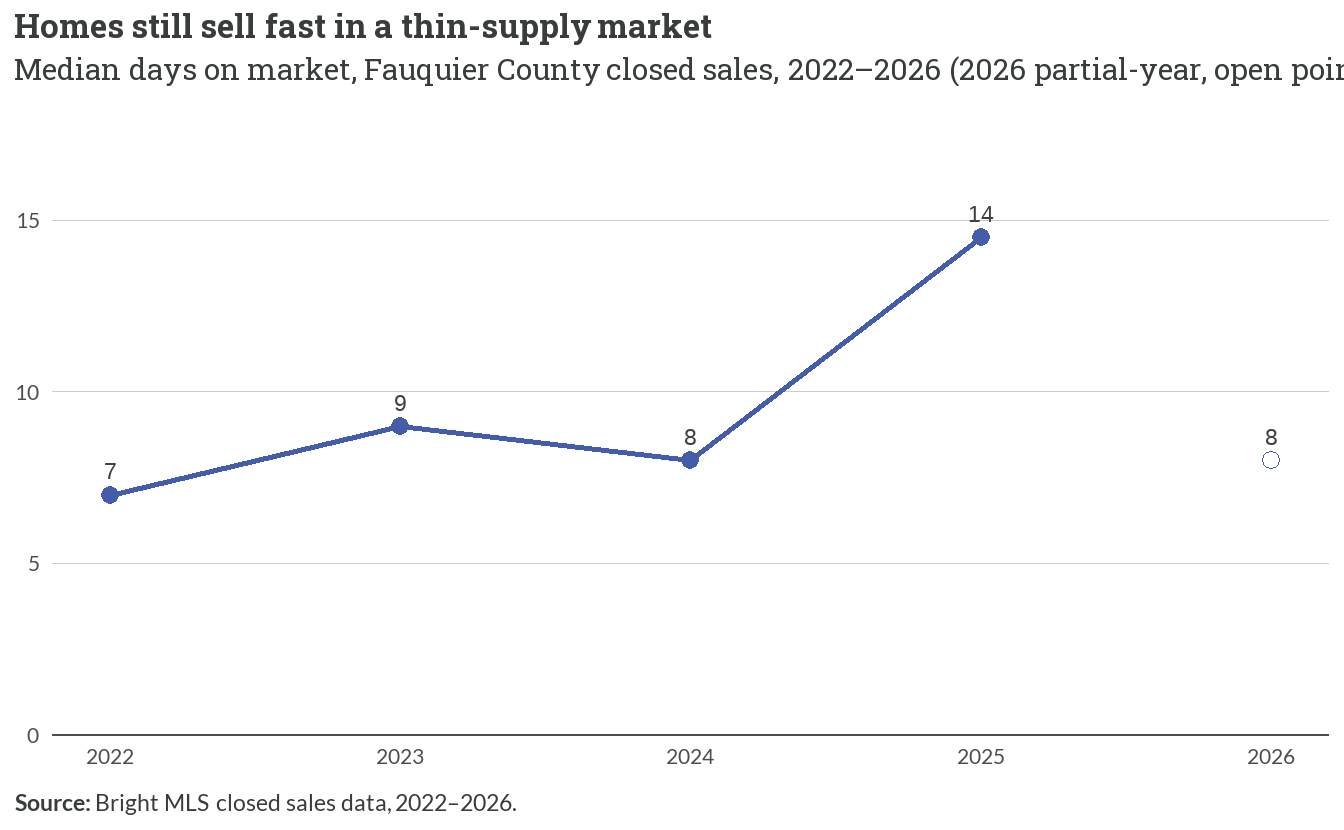
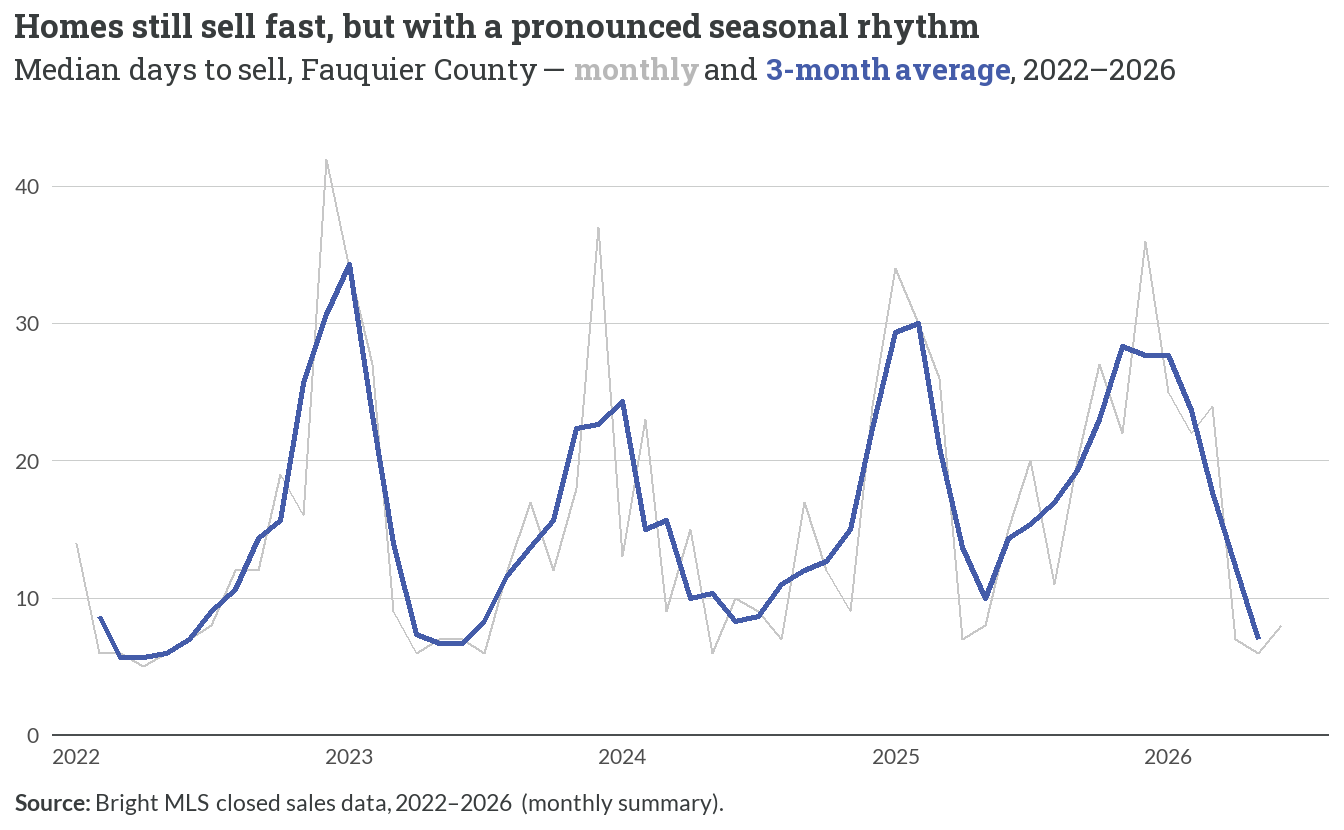
Add monthly summary series to for-sale pipeline and chapter
Ingest 9 monthly summary CSVs into a new monthly_summary frame in mls.rds; add months-of-supply/active-listings trend and monthly days-on-market figures to the ownership chapter; instrument summary-vs-transaction count reconciliation (published counts ~+20%, prices agree to 0.1%). Sales-volume headline deferred pending re-base decision.

diff --git a/docs/market-ownership.html b/docs/market-ownership.html
@@ -238,7 +238,7 @@ ul.task-list li input[type="checkbox"] {
 <h2 data-number="3.1" class="anchored" data-anchor-id="sales-volume"><span class="header-section-number">3.1</span> Sales volume</h2>
 <div class="cell" data-layout-align="left">
 <div class="cell-output-display">
-<div id="fig-sales-volume" class="quarto-float quarto-figure quarto-figure-left anchored" alt="Column chart of Fauquier County annual home sales from 2016 to 2026. Volume climbs from about 1,067 in 2016 to a 2020–21 peak near 1,450–1,470, then falls to roughly 850–940 sales a year in 2022–2025. Columns through 2021 come from the earlier GP/VAR series and 2022 onward from Bright MLS; the final 2026 column is a partial year-to-date count." data-fig-align="left">
+<div id="fig-sales-volume" class="quarto-float quarto-figure quarto-figure-left anchored" data-fig-align="left" alt="Column chart of Fauquier County annual home sales from 2016 to 2026. Volume climbs from about 1,067 in 2016 to a 2020–21 peak near 1,450–1,470, then falls to roughly 850–940 sales a year in 2022–2025. Columns through 2021 come from the earlier GP/VAR series and 2022 onward from Bright MLS; the final 2026 column is a partial year-to-date count.">
 <figure class="quarto-float quarto-float-fig figure">
 <div aria-describedby="fig-sales-volume-caption-0ceaefa1-69ba-4598-a22c-09a6ac19f8ca">
 <img src="market-ownership_files/figure-html/fig-sales-volume-1.png" class="img-fluid quarto-figure quarto-figure-left figure-img" style="width:100.0%" alt="Column chart of Fauquier County annual home sales from 2016 to 2026. Volume climbs from about 1,067 in 2016 to a 2020–21 peak near 1,450–1,470, then falls to roughly 850–940 sales a year in 2022–2025. Columns through 2021 come from the earlier GP/VAR series and 2022 onward from Bright MLS; the final 2026 column is a partial year-to-date count.">
@@ -255,12 +255,25 @@ Figure&nbsp;3.1: Home sales cooled sharply from the 2020–21 peak
 <li>The cooling reflects <strong>thin supply and higher financing costs</strong>, not falling demand — prices kept climbing through the slowdown (<a href="#fig-price-trend" class="quarto-xref">Figure&nbsp;<span>3.2</span></a>).</li>
 <li>Counts through 2021 come from the GP/VAR annual series and 2022 onward from Bright MLS; <strong>2026 is a partial year-to-date count</strong> and is not comparable to the full years.</li>
 </ul>
+<div class="callout callout-style-default callout-note callout-titled">
+<div class="callout-header d-flex align-content-center">
+<div class="callout-icon-container">
+<i class="callout-icon"></i>
+</div>
+<div class="callout-title-container flex-fill">
+<span class="screen-reader-only">Note</span>A note on sales counts
+</div>
+</div>
+<div class="callout-body-container callout-body">
+<p>Bright MLS’s <strong>published monthly summary</strong> reports roughly <strong>20% more sales</strong> than the transaction-level export used for the volume series above (e.g.&nbsp;1,127 vs 938 closings in 2025) — a near-constant level offset across every year, consistent with a property-type filter on the export. <strong>Median sale prices agree between the two sources to within ~0.1%</strong>, so the price findings are unaffected; the <em>level</em> of sales counts (and the active-listing snapshot below) should be read as the export’s narrower definition, while the year-over-year <em>trend</em> holds under either source.</p>
+</div>
+</div>
 </section>
 <section id="prices" class="level2" data-number="3.2">
 <h2 data-number="3.2" class="anchored" data-anchor-id="prices"><span class="header-section-number">3.2</span> Prices</h2>
 <div class="cell" data-layout-align="left">
 <div class="cell-output-display">
-<div id="fig-price-trend" class="quarto-float quarto-figure quarto-figure-left anchored" alt="Line chart of Fauquier County median sold price from 2016 to 2025. The nominal monthly line rises from about $360,000 to $650,000; the inflation-adjusted line in 2025 dollars rises more gently from about $465,000 to $650,000. Two annual town-ZIP lines beginning in 2022 sit on either side of the county: Warrenton near $690,000 and Bealeton near $570,000 by 2025." data-fig-align="left">
+<div id="fig-price-trend" class="quarto-float quarto-figure quarto-figure-left anchored" data-fig-align="left" alt="Line chart of Fauquier County median sold price from 2016 to 2025. The nominal monthly line rises from about $360,000 to $650,000; the inflation-adjusted line in 2025 dollars rises more gently from about $465,000 to $650,000. Two annual town-ZIP lines beginning in 2022 sit on either side of the county: Warrenton near $690,000 and Bealeton near $570,000 by 2025.">
 <figure class="quarto-float quarto-float-fig figure">
 <div aria-describedby="fig-price-trend-caption-0ceaefa1-69ba-4598-a22c-09a6ac19f8ca">
 <img src="market-ownership_files/figure-html/fig-price-trend-1.png" class="img-fluid quarto-figure quarto-figure-left figure-img" style="width:100.0%" alt="Line chart of Fauquier County median sold price from 2016 to 2025. The nominal monthly line rises from about $360,000 to $650,000; the inflation-adjusted line in 2025 dollars rises more gently from about $465,000 to $650,000. Two annual town-ZIP lines beginning in 2022 sit on either side of the county: Warrenton near $690,000 and Bealeton near $570,000 by 2025.">
@@ -282,7 +295,7 @@ Figure&nbsp;3.2: Prices climbed steeply — and kept rising even after inflation
 <h2 data-number="3.3" class="anchored" data-anchor-id="prices-vs.-payments-vs.-incomes"><span class="header-section-number">3.3</span> Prices vs.&nbsp;payments vs.&nbsp;incomes</h2>
 <div class="cell" data-layout-align="left">
 <div class="cell-output-display">
-<div id="fig-price-payment-income" class="quarto-float quarto-figure quarto-figure-left anchored" alt="Indexed line chart set to 100 in 2016 for Fauquier County. The monthly mortgage payment line rises fastest, reaching about 250 by 2025; the median sold price line reaches about 180; and median household income rises most slowly to about 145 by 2024. The gap between payments and incomes widens sharply after 2021 as mortgage rates jump." data-fig-align="left">
+<div id="fig-price-payment-income" class="quarto-float quarto-figure quarto-figure-left anchored" data-fig-align="left" alt="Indexed line chart set to 100 in 2016 for Fauquier County. The monthly mortgage payment line rises fastest, reaching about 250 by 2025; the median sold price line reaches about 180; and median household income rises most slowly to about 145 by 2024. The gap between payments and incomes widens sharply after 2021 as mortgage rates jump.">
 <figure class="quarto-float quarto-float-fig figure">
 <div aria-describedby="fig-price-payment-income-caption-0ceaefa1-69ba-4598-a22c-09a6ac19f8ca">
 <img src="market-ownership_files/figure-html/fig-price-payment-income-1.png" class="img-fluid quarto-figure quarto-figure-left figure-img" style="width:100.0%" alt="Indexed line chart set to 100 in 2016 for Fauquier County. The monthly mortgage payment line rises fastest, reaching about 250 by 2025; the median sold price line reaches about 180; and median household income rises most slowly to about 145 by 2024. The gap between payments and incomes widens sharply after 2021 as mortgage rates jump.">
@@ -304,7 +317,7 @@ Figure&nbsp;3.3: Monthly mortgage payments have far outrun both prices and incom
 <h2 data-number="3.4" class="anchored" data-anchor-id="price-segments"><span class="header-section-number">3.4</span> Price segments</h2>
 <div class="cell" data-layout-align="left">
 <div class="cell-output-display">
-<div id="fig-price-bands" class="quarto-float quarto-figure quarto-figure-left anchored" alt="Hundred-percent stacked column chart of Fauquier County home sales by price band from 2022 to 2026. The under-$250,000 band shrinks from about 4% to under 2%, and the $250,000–$350,000 band from about 10% to 4%, while the $500,000–$750,000 and $750,000-plus bands together grow to roughly three-quarters of all sales." data-fig-align="left">
+<div id="fig-price-bands" class="quarto-float quarto-figure quarto-figure-left anchored" data-fig-align="left" alt="Hundred-percent stacked column chart of Fauquier County home sales by price band from 2022 to 2026. The under-$250,000 band shrinks from about 4% to under 2%, and the $250,000–$350,000 band from about 10% to 4%, while the $500,000–$750,000 and $750,000-plus bands together grow to roughly three-quarters of all sales.">
 <figure class="quarto-float quarto-float-fig figure">
 <div aria-describedby="fig-price-bands-caption-0ceaefa1-69ba-4598-a22c-09a6ac19f8ca">
 <img src="market-ownership_files/figure-html/fig-price-bands-1.png" class="img-fluid quarto-figure quarto-figure-left figure-img" style="width:100.0%" alt="Hundred-percent stacked column chart of Fauquier County home sales by price band from 2022 to 2026. The under-$250,000 band shrinks from about 4% to under 2%, and the $250,000–$350,000 band from about 10% to 4%, while the $500,000–$750,000 and $750,000-plus bands together grow to roughly three-quarters of all sales.">
@@ -326,21 +339,39 @@ Figure&nbsp;3.4: The entry-level segment has all but disappeared
 <h2 data-number="3.5" class="anchored" data-anchor-id="days-on-market-supply"><span class="header-section-number">3.5</span> Days on market &amp; supply</h2>
 <div class="cell" data-layout-align="left">
 <div class="cell-output-display">
-<div id="fig-days-on-market" class="quarto-float quarto-figure quarto-figure-left anchored" alt="Line chart of median days on market for Fauquier County home sales from 2022 to 2026. The median hovers around 7 to 9 days in 2022–2024, rises to about 15 days in 2025, then reads 8 in the partial 2026 year — all well within a fast-moving market." data-fig-align="left">
+<div id="fig-days-on-market" class="quarto-float quarto-figure quarto-figure-left anchored" data-fig-align="left" alt="Line chart of median days to sell for Fauquier County home sales, monthly from 2022 to mid-2026. A faint monthly line swings between roughly 5 days in spring and 30 to 40 days in winter each year; a heavier three-month average line makes the seasonal sawtooth clear and drifts modestly higher in 2025 before easing in 2026.">
 <figure class="quarto-float quarto-float-fig figure">
 <div aria-describedby="fig-days-on-market-caption-0ceaefa1-69ba-4598-a22c-09a6ac19f8ca">
-<img src="market-ownership_files/figure-html/fig-days-on-market-1.png" class="img-fluid quarto-figure quarto-figure-left figure-img" style="width:100.0%" alt="Line chart of median days on market for Fauquier County home sales from 2022 to 2026. The median hovers around 7 to 9 days in 2022–2024, rises to about 15 days in 2025, then reads 8 in the partial 2026 year — all well within a fast-moving market.">
+<img src="market-ownership_files/figure-html/fig-days-on-market-1.png" class="img-fluid quarto-figure quarto-figure-left figure-img" style="width:100.0%" alt="Line chart of median days to sell for Fauquier County home sales, monthly from 2022 to mid-2026. A faint monthly line swings between roughly 5 days in spring and 30 to 40 days in winter each year; a heavier three-month average line makes the seasonal sawtooth clear and drifts modestly higher in 2025 before easing in 2026.">
 </div>
 <figcaption class="quarto-float-caption-bottom quarto-float-caption quarto-float-fig" id="fig-days-on-market-caption-0ceaefa1-69ba-4598-a22c-09a6ac19f8ca">
-Figure&nbsp;3.5: Homes still sell fast in a thin-supply market
+Figure&nbsp;3.5: Homes still sell fast, but with a pronounced seasonal rhythm
 </figcaption>
 </figure>
 </div>
 </div>
 </div>
 <ul>
-<li>Median days on market stayed <strong>fast — around 7–8 days in 2022–2024, ticking up to 14 in 2025</strong> as higher rates cooled demand, but still a matter of weeks, not months.</li>
-<li>With only <strong>218 active listings</strong> against 2025’s sales pace, the county holds about <strong>2.8 months of supply</strong> — well inside the roughly six-month threshold that separates a buyer’s from a seller’s market.</li>
+<li>Homes sell <strong>fast — a median of 10–11 days in 2022–2024, rising to 21 in 2025</strong> as higher rates cooled demand, but still weeks, not months.</li>
+<li>The monthly view exposes a <strong>strong seasonal rhythm the annual averages hide</strong>: listings linger roughly 25–40 days in December–February and sell in under 10 by spring, every year.</li>
+</ul>
+<div class="cell" data-layout-align="left">
+<div class="cell-output-display">
+<div id="fig-supply-trend" class="quarto-float quarto-figure quarto-figure-left anchored" data-fig-align="left" alt="Two-panel chart for 2022 to mid-2026. The top panel shows active listings rising from about 315 to a 2025 peak above 450 in Fauquier County, with Warrenton flat near 45; the bottom panel shows months of supply climbing from about 3 to roughly 4 to 5 months for both the county and Warrenton, staying below the dashed six-month line that marks a balanced market.">
+<figure class="quarto-float quarto-float-fig figure">
+<div aria-describedby="fig-supply-trend-caption-0ceaefa1-69ba-4598-a22c-09a6ac19f8ca">
+<img src="market-ownership_files/figure-html/fig-supply-trend-1.png" class="img-fluid quarto-figure quarto-figure-left figure-img" style="width:100.0%" alt="Two-panel chart for 2022 to mid-2026. The top panel shows active listings rising from about 315 to a 2025 peak above 450 in Fauquier County, with Warrenton flat near 45; the bottom panel shows months of supply climbing from about 3 to roughly 4 to 5 months for both the county and Warrenton, staying below the dashed six-month line that marks a balanced market.">
+</div>
+<figcaption class="quarto-float-caption-bottom quarto-float-caption quarto-float-fig" id="fig-supply-trend-caption-0ceaefa1-69ba-4598-a22c-09a6ac19f8ca">
+Figure&nbsp;3.6: Inventory has loosened from its pandemic lows — but supply is still tight
+</figcaption>
+</figure>
+</div>
+</div>
+</div>
+<ul>
+<li>Active for-sale inventory has climbed from a tight <strong>~315 listings a month in 2022 to ~392 in 2025</strong>, and months of supply from about <strong>3.4 to 4.3 months</strong> — a real loosening from the pandemic-era squeeze.</li>
+<li>Even so, supply stays <strong>well below the roughly six-month mark</strong> that separates a seller’s from a buyer’s market: Fauquier remains a seller’s market, just a less extreme one than at the 2021–22 peak.</li>
 </ul>
 <div class="callout callout-style-default callout-note callout-titled">
 <div class="callout-header d-flex align-content-center">
@@ -348,11 +379,11 @@ Figure&nbsp;3.5: Homes still sell fast in a thin-supply market
 <i class="callout-icon"></i>
 </div>
 <div class="callout-title-container flex-fill">
-<span class="screen-reader-only">Note</span>Current inventory — a strong seller’s market
+<span class="screen-reader-only">Note</span>Inventory is recovering, not recovered
 </div>
 </div>
 <div class="callout-body-container callout-body">
-<p>As of the July 2026 snapshot, <strong>218 homes were listed for sale</strong> county-wide. Against the 2025 sales pace (~78 closings a month), that is roughly <strong>2.8 months of supply</strong> — a strong seller’s market. Active inventory and months-of-supply are a <strong>single point-in-time snapshot</strong>, not a trend: a retroactive inventory time series cannot be reconstructed from the available data.</p>
+<p>Contrary to a point-in-time reading, the monthly Bright MLS series shows active listings and months of supply <strong>trending upward since 2022</strong> (from ~3.4 to ~4.3 months) as higher rates slowed the frantic pace — but Fauquier is <strong>still firmly a seller’s market</strong>, with supply short of the ~6-month balance point and homes selling within weeks for most of the year.</p>
 </div>
 </div>
 </section>
@@ -360,13 +391,13 @@ Figure&nbsp;3.5: Homes still sell fast in a thin-supply market
 <h2 data-number="3.6" class="anchored" data-anchor-id="what-it-takes-to-buy"><span class="header-section-number">3.6</span> What it takes to buy</h2>
 <div class="cell" data-layout-align="left">
 <div class="cell-output-display">
-<div id="fig-income-to-buy" class="quarto-float quarto-figure quarto-figure-left anchored" alt="Two-bar comparison for Fauquier County. The income needed to afford the median-priced home is about $190,600, well above the actual median household income of about $130,200 — a gap of roughly $60,000." data-fig-align="left">
+<div id="fig-income-to-buy" class="quarto-float quarto-figure quarto-figure-left anchored" data-fig-align="left" alt="Two-bar comparison for Fauquier County. The income needed to afford the median-priced home is about $190,600, well above the actual median household income of about $130,200 — a gap of roughly $60,000.">
 <figure class="quarto-float quarto-float-fig figure">
 <div aria-describedby="fig-income-to-buy-caption-0ceaefa1-69ba-4598-a22c-09a6ac19f8ca">
 <img src="market-ownership_files/figure-html/fig-income-to-buy-1.png" class="img-fluid quarto-figure quarto-figure-left figure-img" style="width:100.0%" alt="Two-bar comparison for Fauquier County. The income needed to afford the median-priced home is about $190,600, well above the actual median household income of about $130,200 — a gap of roughly $60,000.">
 </div>
 <figcaption class="quarto-float-caption-bottom quarto-float-caption quarto-float-fig" id="fig-income-to-buy-caption-0ceaefa1-69ba-4598-a22c-09a6ac19f8ca">
-Figure&nbsp;3.6: Buying the median home takes about $60,000 more than the median household earns
+Figure&nbsp;3.7: Buying the median home takes about $60,000 more than the median household earns
 </figcaption>
 </figure>
 </div>
@@ -391,8 +422,8 @@ Figure&nbsp;3.6: Buying the median home takes about $60,000 more than the median
 </div>
 <div class="callout-body-container callout-body">
 <ul>
-<li><strong>“Only about 3 for-sale listings under $350,000 were on the market (April 2026).”</strong> <em>Confirmed.</em> The July 2026 snapshot shows <strong>exactly 3 of 218 active listings priced under $350,000</strong> (<a href="#fig-price-bands" class="quarto-xref">Figure&nbsp;<span>3.4</span></a>, <a href="#fig-days-on-market" class="quarto-xref">Figure&nbsp;<span>3.5</span></a>) — the entry-level for-sale segment has effectively vanished.</li>
-<li><strong>“Homes are expensive relative to what local incomes can support.”</strong> <em>Confirmed and nuanced.</em> Median prices nearly doubled since 2016 and rose in real terms (<a href="#fig-price-trend" class="quarto-xref">Figure&nbsp;<span>3.2</span></a>); the income needed to buy the median home now exceeds the actual median by ~$60k (<a href="#fig-income-to-buy" class="quarto-xref">Figure&nbsp;<span>3.6</span></a>). The squeeze is amplified by financing: monthly payments rose far faster than prices or incomes (<a href="#fig-price-payment-income" class="quarto-xref">Figure&nbsp;<span>3.3</span></a>).</li>
+<li><strong>“Only about 3 for-sale listings under $350,000 were on the market (April 2026).”</strong> <em>Confirmed.</em> The July 2026 listing export shows <strong>exactly 3 of 218 active listings priced under $350,000</strong> (<a href="#fig-price-bands" class="quarto-xref">Figure&nbsp;<span>3.4</span></a>) — the entry-level for-sale segment has effectively vanished. (The 218-listing export is the narrower property-type subset noted above; Bright MLS’s published count for the county runs higher, but the near-total absence of sub-$350k inventory holds regardless.)</li>
+<li><strong>“Homes are expensive relative to what local incomes can support.”</strong> <em>Confirmed and nuanced.</em> Median prices nearly doubled since 2016 and rose in real terms (<a href="#fig-price-trend" class="quarto-xref">Figure&nbsp;<span>3.2</span></a>); the income needed to buy the median home now exceeds the actual median by ~$60k (<a href="#fig-income-to-buy" class="quarto-xref">Figure&nbsp;<span>3.7</span></a>). The squeeze is amplified by financing: monthly payments rose far faster than prices or incomes (<a href="#fig-price-payment-income" class="quarto-xref">Figure&nbsp;<span>3.3</span></a>).</li>
 <li><strong>“Buyers face a quality-versus-price mismatch — what’s affordable isn’t desirable, and what’s desirable isn’t affordable.”</strong> <em>Confirmed and nuanced.</em> New construction skews larger and pricier (<a href="inventory.html" class="quarto-xref"><span>Chapter 1</span></a>), the sub-$350k segment has all but disappeared (<a href="#fig-price-bands" class="quarto-xref">Figure&nbsp;<span>3.4</span></a>), and the market still moves fast (<a href="#fig-days-on-market" class="quarto-xref">Figure&nbsp;<span>3.5</span></a>) — leaving entry-level buyers with few options at any quality level.</li>
 </ul>
 </div>

diff --git a/PLAN.md b/PLAN.md
@@ -485,3 +485,4 @@ Rule of thumb: if it isn't needed to render a § 7 figure or satisfy a § 6 vali
 - **2026-07-13** — Session 9 (Ownership + Rental market chapters) complete (Opus 4.8; built across two sittings — part 1 = market infra + `market-ownership.qmd` (commit 192bae4), part 2 = `market-rental.qmd` + close). Built `market-ownership.qmd` (Ch 3a, 7 §7 items F1–F7) + `market-rental.qmd` (Ch 3b, 8 §7 items F1–F8). **Shared infra (Phase 0, part 1):** four new `_common.R` caption helpers (`costar_cap`/`fmr_cap`/`nhpd_cap`/`pmms_cap`); `r/mls.R` extended with three aggregate frames (`annual_zip`, `dom_annual`, `sales_bands`), re-run clean, existing validations green; `CLAUDE.md` + `README.md` updated. No API pulls; no `r/` re-run in part 2. **Ch 3a key numbers:** 2025 annual median price $650,000 (GP benchmark ~$645,250, +0.7% ✓); sales peaked 2021, down ~36% to 2025; county median +81% nominal / real +~40% since 2016; ~218 active listings, ~2.8 months of supply (Jul 2026 snapshot); income to buy the median $190,586 vs actual $130,189 (gap ~$60k, reused from `gaps.rds`); 3 of 218 active listings under $350k. **Ch 3b key numbers:** renter share county 21% / Warrenton 37% / Bealeton 21% / VA 33%; median gross rent $1,138 (2013) → $1,613 (2024), +42% nominal / +10% real; CoStar professional market 998 units across 14 tracked properties (41 in broader inventory), latest adj asking $1,604 (exact benchmark ✓), recent vacancy ~2.8%; single-family = 67.8% of rentals, purpose-built apartments (5+) = 19.8%; NHPD 874 assisted units / 13 properties (exact benchmark ✓), soonest expiration Jan 2027, 8 of 13 expiring by 2036; MLS 2025 rentals 28 of 203 under $1,700, median lease $2,450. **Part-1 (Ch 3a) deviations, folded in for the record:** (a) F3 price/payment/income index actuals ran above GP — price +81% / payment +152% / income +43% through 2024 vs GP +79/+127/+35 — same direction (payments ≫ prices ≫ incomes), higher magnitude; (b) `acs_income$b19013_trend` had a full annual county B19013 series, so the Step-0 endpoint-anchor fallback was not needed; (c) DOM used the native `days_on_market` MLS field (not close−list arithmetic); (d) the F6 income-to-buy caption cross-ref to `@sec-gaps` was kept in prose only — `theme_hda` renders captions via gridtext, which errors on the `<a>` tag Quarto emits for `@`-refs inside `labs(caption=)`. **Part-2 (Ch 3b) deviations:** (1) **F6 FMR direction flipped from the plan placeholder** — the plan expected "FMRs lag the going market," but because Fauquier sits in the high-cost DC metro FMR area the county 2BR FMR ($2,246) runs *far above* the actual ACS median 2BR rent ($1,437); SAFMRs pull toward local reality but still exceed the ACS median at every bedroom size. Takeaway reframed to "Metro FMRs run well above what renters actually pay" and the voucher-payment-standard implication noted; (2) **F4 built as a 2-panel facet** (asking rent nominal+real / vacancy) with a magnitude-based per-panel axis labeller (`$` when break ≥100, `%` below) — `vacancy_rate` is fully populated (42/42), so the panel was built, not dropped; `strip.text = element_text()` override removed after it hit a ggplot2 4.0 S7 `merge_element` class clash with `theme_hda`'s strip element; (3) **F3 rent-distribution town treatment** — county shows all 6 bands (2 High + 4 Medium), Warrenton 2 Medium bands survive (4 Low suppressed), Bealeton fully suppressed (tiny renter base) — reliability treatment visible and not all-suppressed overall; (4) `acs_stock$vars$b25063`/`$b25031` label frames are empty, so B25063 rent brackets and B25031 bedroom variables were mapped inline from the standard ACS layout (Step-0 #5 fallback); (5) B25032 renter-side collapse via a hardcoded `structure_cat32()` (variables 014–023), mirroring inventory's `structure_cat`. **Reliability spot-check:** F1 renter cells — county/Warrenton High, Bealeton Medium (footnoted), VA High; F2 all town rent cells High (none suppressed); F3 as above; F5/town structure too small → county-only by design. Confirms the wrapper spans tiers and does not uniformly flag "Low." **Render:** `quarto render market-rental.qmd` clean; full-book `quarto render` clean (11 chapters incl. stubs); both market chapters appear in report order between `demographics` and `gaps`; `@sec-market-ownership` (referenced from Ch 1/Ch 2) and internal `@fig-*`/`@tbl-*` refs resolve, no `?@` broken refs; `_freeze/` + `docs/` rebuilt. **Deferrals:** none — all 15 §7 items across both chapters built. **Open questions:** (a) F6 FMR direction flip is a genuine finding, not an error — worth a one-line note in `data-notes.qmd` (Session 11) that Fauquier's metro FMR overstates local rents and SAFMR/ACS are the better local gauges; (b) NHPD `total_assisted_units` (874) can exceed a property's `total_units` where subsidies overlap (e.g. Warrenton Manor 166 assisted vs 98 units) — footnoted in `@tbl-nhpd`, flag for Session 11 methodology.
 - **2026-07-14** — Session 10 **part 1** (Affordability Gaps chapter + shared infra) complete (Opus 4.8). Built `gaps.qmd` (Ch 4, 8 labeled §7 items F1–F8 + F9 = two callouts). **Phase 0a:** three new `_common.R` caption helpers (`ami_cap(year)`/`pit_cap()`/`vdoe_cap()`); `CLAUDE.md` + `README.md` helper lists updated. **Phase 0b (only API pull / `r/` re-run this session):** extended `r/acs_costs.R` to pull B25070 (renter GRAPI) + B25091 (owner SMOCAPI) across the trend vintages (2013/2017/2021/2024) into a new `burden_trend` frame — GEOID/geo_type/year/tenure/burdened/computed/share/moe_share/cv, with a derived-proportion CV (Census ratio/proportion MOE formula, 0–100 scale). Burden = Σ(30%+ categories) ÷ (categories with a computed ratio); owner numerator = mortgaged 008–011 + non-mortgaged 019–022, denom excludes the two "not computed" cells (012/023). Re-run clean; `trend_rent`/`trend_value` untouched; output-length check bumped to `+3`. **Validation vs GP (all green):** ACS 2024 Fauquier renter burden **40.2%** / owner **21.5%** (exact); CHAS T8 county renter **32.9%** / owner **20.1%** (exact); CHAS T7 detail-sum occupied HH ≈ **25,900** (benchmark 25,944); afford_by_band 50% AMI → $1,869 rent / $149,261 buy; income-needed rent **$98,000** / buy **$190,586**; rental deficit **−625** at ≤30% AMI (net −3,315 across 4 bands); ownership **8 of 218** listings affordable below 100% AMI (0/0/1/7 across the four lower bands, **210** only in the 120%+ price range); wages All Jobs $68,000 / Health Care $60,062 / Retail $41,934 / Local Gov $58,079, 2-worker $136,000 vs rent $98k / buy $190,586; HUD MFI **$166,100**. **Fig 4/Fig 5 burden-source split honored:** Fig 4 (`fig-burden-trend`) = ACS 40.2/21.5 with the reconciliation footnote (ACS excludes ~700 "not computed" renters → exceeds CHAS 32.9%; full note deferred to `data-notes.qmd`); Fig 5 (`fig-burden-band`) = CHAS T8 32.9/20.1, the core by-AMI-band chart, using `cb_pal`. **Takeaway direction flip (reframed to actual data, per plan license):** the plan's Fig 4 anticipated a possible rising burden "trend," but the ACS series *declines* modestly 2013→2024 (renter 44.0%→40.2%, owner 28.7%→21.5%); title reframed to "Cost burden has eased since 2013, but renters remain far more burdened than owners," with a bullet noting the low-rate-decade cause and that the recent rate environment points the other way. **Gotchas hit:** (a) **gridtext `<a>`-tag error confirmed for `@fig`/`@tbl` cross-refs inside `labs(caption=)`** — commonmark autolinks `@fig-… (` → `<a>`; removed all three caption cross-refs (kept them in bullet prose), matching the S9 precedent; (b) CHAS T7/T8 `household_income` already carries short labels (`≤30% AMI`…`>100% AMI`) — no verbose-HAMFI normalization needed (that quirk is T15/T18); (c) `case_when()` throughout; (d) F3/F5 facets rendered fine on `theme_hda()`'s built-in strips (no raw `strip.text` override) — no ggplot2 4.0 S7 clash; (e) `ownership_gap$listings_affordable` is **incremental** per band (sums to 218), so "8 below 100% / 210 in top band" is exact. **Reliability spot-check (town burden cells, 2024):** Warrenton renter CV 11 → **High**; Bealeton renter CV 21, Warrenton owner CV 19, Bealeton owner CV 22 → **Medium** (footnoted `*`); none Low/suppressed — tiers span, wrapper works; F3 town HH cells computed CV from `moe` and footnoted (counts, not rates). **No recompute:** F2/F6/F7 read `gaps$afford_by_band`/`rental_gap`/`ownership_gap` directly; `affordcalc.R`/`gaps.R` not sourced. **Render:** `quarto render gaps.qmd` clean; full-book `quarto render` clean (11 chapters); `@sec-gaps` + all internal `@fig-*`/`@tbl-*` and the outbound `@sec-market-ownership` ref resolve (no `?@`); `_freeze/gaps` + `docs/` rebuilt. **Deferrals:** `populations.qmd` = Part 2 (not built). **Open questions for Session 11 data-notes:** ACS-vs-CHAS burden-denominator reconciliation (the ~700 "not computed" renters) needs the full methodology note.
 - **2026-07-12** — Session 8 (Inventory + Demographics chapters) complete (Opus 4.8; built across two sittings — part 1 = shared infra + `inventory.qmd`, part 2 = `demographics.qmd` + close). Built `inventory.qmd` (Ch 1, 7 figures/callouts) + `demographics.qmd` (Ch 2, 11 §7 items). **Shared infra (Phase 0):** added `_common.R` caption helpers (`dec_cap`/`pep_cap`/`bps_cap`/`lodes_cap`/`cpi_cap`/`compplan_cap`) + `flag_reliability()` wrapper (High/Med/Low tiers from a 0–100 CV — fixes the `hdatools::add_reliability()` scale/name mismatch that mislabels every town cell "Low"); `CLAUDE.md` + `README.md` updated. **Upstream edits (Jonathan-approved, in-pattern, add no API surface to chapters):** `r/mls.R` now persists `new_vs_resale` (median price/sqft/acres/yr-built by construction × year, 2022–2026) → Ch1 F6; `r/acs_income.R` B19013 county filter broadened to include Culpeper/PW/Loudoun → Ch2 F5 benchmarks. Both re-run, validations pass. **Ch1 key numbers:** SFD detached 85.1%; median year built 1987 (56% pre-1980); owner share stable 76–80%; permits 266/yr 2020–2025 (county-only). **Ch2 key numbers:** pop 48,741 (1990) → 75,865 (2024, +56%); components one-year flow (vintage 2024) net migration +474 vs natural +138; 65+ 17.2% (VA 16.7%); avg HH size 2.78; median HH income $130,189 (3rd of the peer set, below Loudoun $181,765); real income +~15% 2010–2024; all-jobs pay $68,000; residency share 35.4%, 37% of commuters 45+ min. **Ch1 deviations (part 1):** (a) year-built story is rental stock *older* / owner stock *newer* — the opposite of the plan's "newer rental" guess (direction taken from B25036); (b) new construction now on *smaller* lots (~0.23 ac) than resale, not larger — lot-size signal flipped since 2022, so the "missing middle" framing is product-type (no starter/attached), not lot size; (c) Bealeton mobile-home count is an unreliable 0 (CV too high) → reframed to the county figure (~470, 1.6%, Medium) as counts not rates; (d) land-constraint callout framed as 90% rural + 8,381-unit unbuilt capacity + 97% SFD permits (no single "%-under-easement" stat exists); (e) BPS Warrenton place file NULL (HTTP 524) → F5 county-only. **Ch2 deviations (part 2):** (a) PEP population ends 2024 (not the plan's 2025) → F1 titled 1990–2024; (b) F6 income distribution — the lower-income town is **Warrenton** (27% of HH under $50k, smallest $150k+ share), not Bealeton as the plan placeholder guessed (Bealeton median $108k > Warrenton $83k); Bealeton's three lowest brackets suppressed (CV>30%); (c) F9 wages — all-jobs wage *growth* is comparable across all four counties (~42–48% since 2015), so the validated story is Fauquier's wage *level* sitting below Loudoun, not slower growth (takeaway reframed); (d) F3 age — Fauquier only marginally older than VA (17.2% vs 16.7% for 65+); the sharper signal is the thin 18–34 band, so the takeaway leads with the young-adult deficit; (e) F7 poverty rendered as a callout (town rates suppressed, shown as counts — both CV>30%). **Reliability spot-check:** town cells span High/Medium/Low across the two chapters (F6 Bealeton = 3 Low suppressed + 3 Medium; Warrenton = 5 Medium + 1 High; F11 towns resolve High) — not uniformly "Low," confirming the wrapper works. Full-book `quarto render` clean (11 chapters incl. stubs); `_freeze/inventory` + `_freeze/demographics` refreshed; `docs/` rebuilt site-wide. **Deferrals:** none — all 18 §7 items built. **Open:** F5 real-income deflator uses CPI-less-shelter (the only CPI series in `fred$cpi`) — note in data-notes (Session 11) that shelter is excluded to avoid circularity with housing costs.
+- **2026-07-14** — MLS monthly-summary integration (Opus 4.8; follow-on to Session 9 Ch 3a). Jonathan added **9 Bright MLS monthly summary CSVs** (`mls_monthly_{sales,listings,inventory}_{fauquier,warrenton,bealeton}.csv`, monthly Jan 2022–Jun 2026, Fauquier = county-wide incl. all towns/CDPs). **Pipeline (`r/mls.R`):** new **§7b** reads all 9 into one tidy frame **`monthly_summary`** (geography, date, year, month, grain, sales_n, median_price, active_listings, new_listings, days_to_sell, months_supply; 162 rows = 3 geos × 54 months) — added to `mls.rds` (now 9 frames) and to the §10 validation. A `grain` column ("monthly") future-proofs a coarser Bealeton re-pull. **Investigate-first reconciliation (§10, report-only — no figure re-based):** Bright MLS's **published** Fauquier sales counts run a **near-constant ~+14–23% above** the transaction-export counts that drive the annual series (2025: 1,127 vs 938; 2022: 1,178 vs 1,004) — consistent with a property-type filter on the `mls_sales_*.csv` exports; **median price agrees to ~0.1%**. Validation now prints the year-by-year count table and `warning()`s on the >10% gaps. **Bealeton reliability (inspected before charting):** median 8 sales/mo, 35 of 54 months <10, 9.7% MoM median-price swings ($196k–$605k) → kept off monthly price/DOM charts; its active-listings/months-supply (not median-based) are stable enough. **Chapter (`market-ownership.qmd`, moderate scope):** (1) new **`fig-supply-trend`** — active listings + months of supply (3-mo avg, county + Warrenton, 6-mo balanced-market threshold), retiring the old `callout-note` that claimed an inventory trend "cannot be reconstructed"; county active listings ~315 (2022) → ~392 (2025), months of supply ~3.4 → ~4.3, still below 6 (seller's market, loosening); (2) **`fig-days-on-market` converted annual → monthly** (`ms$days_to_sell`, raw + 3-mo rolling) exposing strong seasonality (winter 25–40 days vs spring <10) the annual view hid; (3) **provenance callout** after Sales-volume documenting the +~20% published-vs-export count gap (prices unaffected); (4) interview-validation "3 of 218 under $350k" annotated that 218 is the narrower export subset (published active count runs higher). **Not re-based (deferred):** the "36% decline from 2021 peak" headline and `fig-sales-volume` left unchanged pending a decision on whether to switch sales volume to the published series (the 2021 peak is GP-sourced; summary starts 2022). **Render:** `quarto render market-ownership.qmd` clean; both new/revised figures build; `_freeze` + `docs/` refreshed. **No new caption helper** (reused `mls_cap()`). **Open for Session 11 data-notes:** (a) reconcile whether to re-base sales volume/active snapshot on the published summary; (b) the published active count (~360, Jun 2026) vs the 218 export snapshot both stem from the same export filter — document.